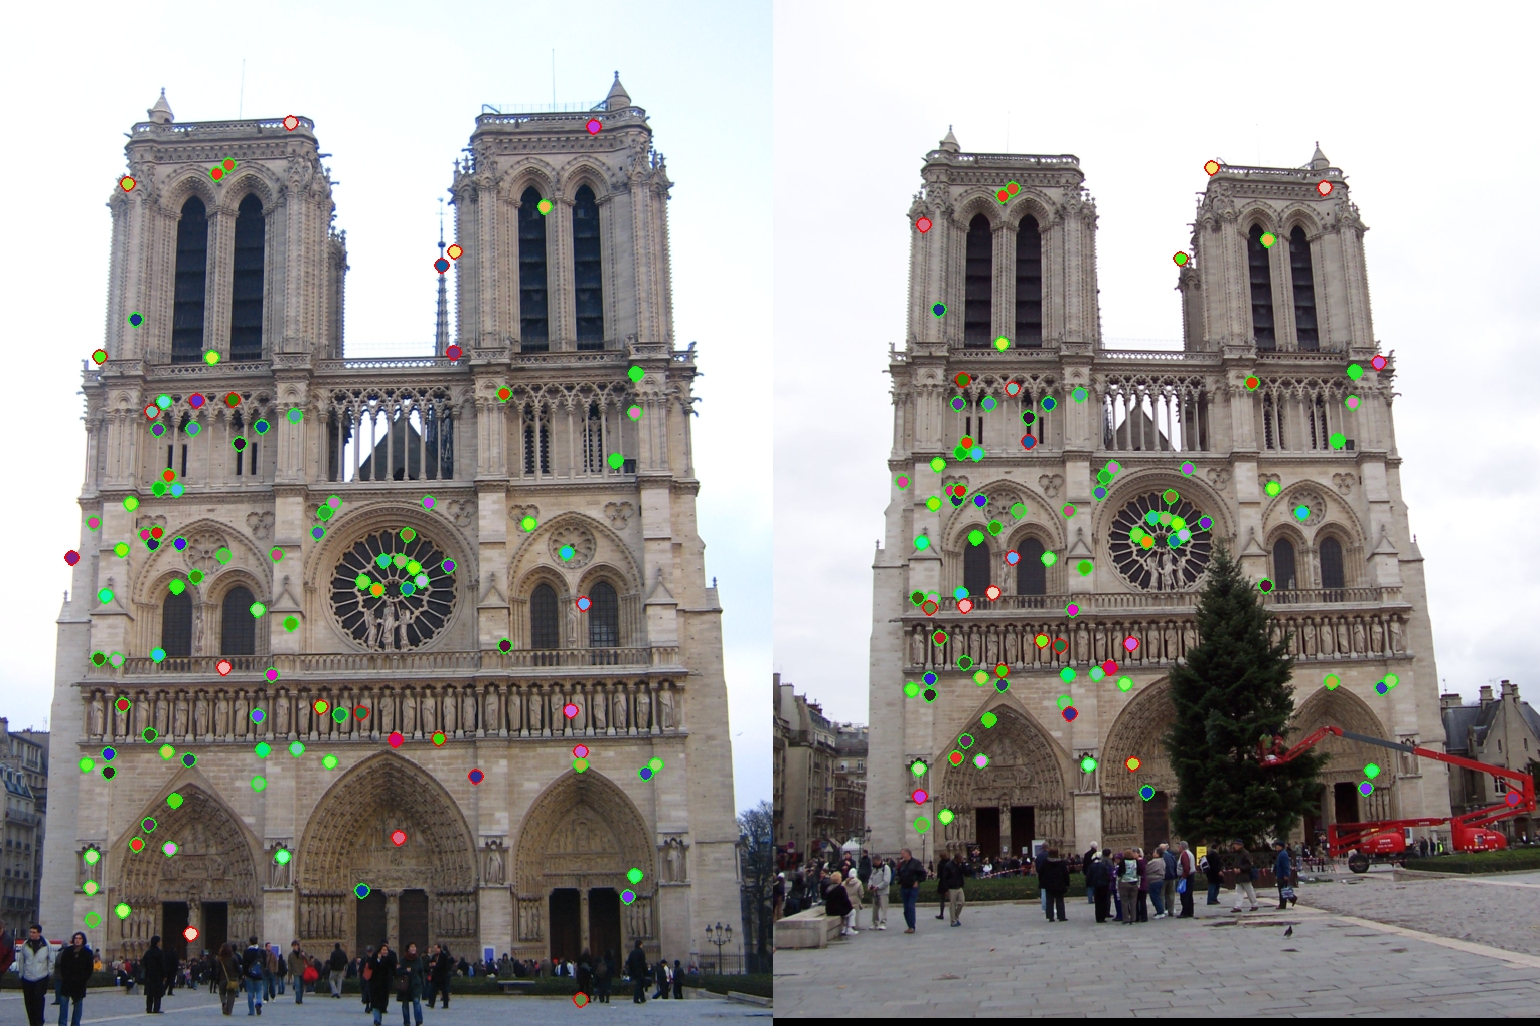
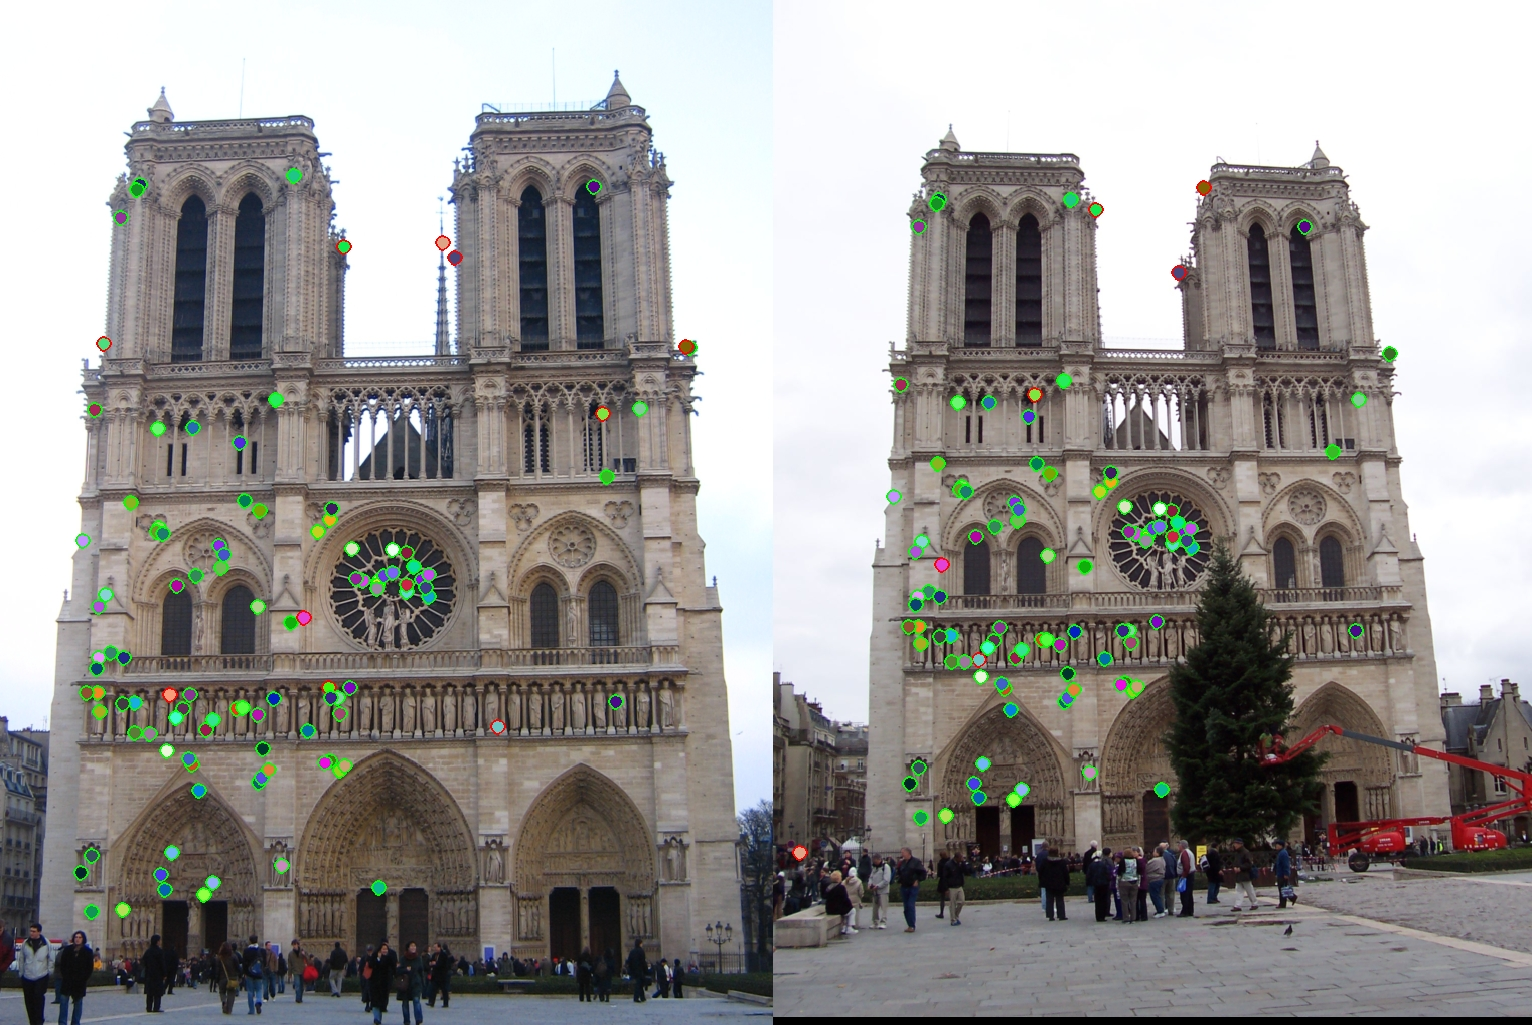
changes to interest pt detector and feature matcher

diff --git a/Basic vision/HCD+SIFT/Temp/a/code/get_interest_points.m b/Basic vision/HCD+SIFT/Temp/a/code/get_interest_points.m
@@ -18,75 +18,50 @@
 %   do not need to make scale and orientation invariant local features.
 function [x, y, confidence, scale, orientation] = get_interest_points(image, feature_width)
 
-% Implement the Harris corner detector (See Szeliski 4.1.1) to start with.
-% You can create additional interest point detector functions (e.g. MSER)
-% for extra credit.
+    % Implement the Harris corner detector (See Szeliski 4.1.1) to start with.
+    % You can create additional interest point detector functions (e.g. MSER)
+    % for extra credit.
 
-% If you're finding spurious interest point detections near the boundaries,
-% it is safe to simply suppress the gradients / corners near the edges of
-% the image.
+    % If you're finding spurious interest point detections near the boundaries,
+    % it is safe to simply suppress the gradients / corners near the edges of
+    % the image.
 
-% The lecture slides and textbook are a bit vague on how to do the
-% non-maximum suppression once you've thresholded the cornerness score.
-% You are free to experiment. Here are some helpful functions:
-%  BWLABEL and the newer BWCONNCOMP will find connected components in 
-% thresholded binary image. You could, for instance, take the maximum value
-% within each component.
-%  COLFILT can be used to run a max() operator on each sliding window. You
-% could use this to ensure that every interest point is at a local maximum
-% of cornerness.
+    % The lecture slides and textbook are a bit vague on how to do the
+    % non-maximum suppression once you've thresholded the cornerness score.
+    % You are free to experiment. Here are some helpful functions:
+    %  BWLABEL and the newer BWCONNCOMP will find connected components in 
+    % thresholded binary image. You could, for instance, take the maximum value
+    % within each component.
+    %  COLFILT can be used to run a max() operator on each sliding window. You
+    % could use this to ensure that every interest point is at a local maximum
+    % of cornerness.
+    threshold = 0.001;
+    g = fspecial('Gaussian', 6, 2.2); % Found best results with sigma 2.2
+    image = imfilter(image, g); % Blurring the image a little with Gaussian filter to reduce noise
+    gx = [-1 0 1; -1 0 1; -1 0 1]; % Prewitt mask
+    gy = gx';
 
-g = fspecial('Gaussian', 6, 2.2);
-image = imfilter(image, g); % Blurring the image a little with Gaussian filter to reduce noise
-gx = [-1 0 1; -1 0 1; -1 0 1]; % Prewitt mask
-gy = gx';
+    Ix = imfilter(image, gx); 
+    Iy = imfilter(image, gy);
+    Ix2 = imfilter(Ix.^2, g);
+    Iy2 = imfilter(Iy.^2, g);
+    Ixy = imfilter(Ix.*Iy, g);
 
-Ix = imfilter(image, gx); 
-Iy = imfilter(image, gy);
-Ix2 = imfilter(Ix.^2, g);
-Iy2 = imfilter(Iy.^2, g);
-Ixy=imfilter(Ix.*Iy, g);
+    R = (Ix2.*Iy2 - Ixy.^2)./(Ix2 + Iy2); % Cornerness measure - Brown, Szeliski, and Winder (2005). Szeliski (4.11)
 
-% R = (Ix2.*Iy2 - Ixy.^2) - 0.04*(Ix2 + Iy2).^2;
-R = (Ix2.*Iy2 - Ixy.^2)./(Ix2 + Iy2); % Cornerness measure
+    R(R < threshold) = 0;
+    r_dim = size(R);
+    R(1: feature_width, :) = 0;R(r_dim(1) - feature_width: r_dim(1), :) = 0; % suppression of outputs near edges
+    R(:, 1:feature_width) = 0;R(:, r_dim(2) - feature_width:r_dim(2)) = 0; % supp continued
 
-R(R < 0.001) = 0;
-r_dim = size(R);
-R(1: feature_width, :) = 0;R(r_dim(1) - feature_width: r_dim(1), :) = 0; % Rowwise
-R(:, 1:feature_width) = 0;R(:, r_dim(2) - feature_width:r_dim(2)) = 0; % Columnwise edge supp
+    r_max = colfilt(R,[3 3],'sliding',@max); % find neighborhood max
+    r_suppressed = R.*(R == r_max);  % suppress non-max
+    [y, x] = find(r_suppressed); 
 
-
-%Local Non-maximal Supression
-offset = floor(feature_width/2);
-for row=1+offset:r_dim(1)-offset
-    for col=1+offset:r_dim(2)-offset
-        window = R(row-offset:row+offset, col-offset:col+offset);
-        if R(row,col) ~=  max(max(window))
-            R(row,col) = 0;
-        end 
-    end
-end
-
-[y, x] = find(R>0);
-
-%Vis Corners
-figure(3);imshow(image);
-viscircles([x, y], ones(size([x, y],1),1));
+    figure(1);imshow(image);
+    viscircles([x, y], ones(size([x, y],1),1));
 
 
 end
 
-
-% function radius = getMaxRadius(image, x, y, width, height)
-% 
-% radius = 0;
-% window = image(x-radius:x+radius, y-radius:y+radius);
-%     while max(window(:)) <= image(x,y)
-%         radius = radius + 1;
-%         if (x-radius < 1) || (x+radius)> height || (y-radius < 1) || (y+radius)> width
-%             break
-%         end
-%         window = image(x-radius:x+radius, y-radius:y+radius);
-%     end
-% end
 

diff --git a/Basic vision/HCD+SIFT/Temp/a/code/match_features.m b/Basic vision/HCD+SIFT/Temp/a/code/match_features.m
@@ -24,27 +24,69 @@ function [matches, confidences] = match_features(features1, features2)
 
 
 %Initialize
-matches = zeros(length(features1) , 2);
-confidences = zeros(length(features1),1);
-
-threshold = 0.9;
-for i = 1:length(features1)
-    distances = sqrt(sum((repmat(features1(i,:),length(features2),1)-features2).^2,2));
-    [dists,indices] = sort(distances,'ascend');
-    ratio = dists(1)/dists(2);
-    if ratio < threshold
-        matches(i,:) = [i indices(1)];
-        confidences(i) = 1-ratio;
-    end
-end
-
-matches(all(matches==0,2),:)=[];
-confidences(all(matches==0,2),:)=[];
+% % matches = zeros(length(features1) , 2);
+% % confidences = zeros(length(features1),1);
+% % 
+% % threshold = 0.875;
+% % for i = 1:length(features1)
+% %     distances = sqrt(sum((repmat(features1(i,:),length(features2),1)-features2).^2,2));
+% %     [dists,indices] = sort(distances,'ascend');
+% %     ratio = dists(1)/dists(2);
+% %     if ratio < threshold
+% %         matches(i,:) = [i indices(1)];
+% %         confidences(i) = 1-ratio;
+% %     end
+% % end
+% % 
+% % matches(all(matches==0,2),:)=[];
+% % confidences(all(matches==0,2),:)=[];
 % Sort the matches so that the most confident onces are at the top of the
 % list. You should probably not delete this, so that the evaluation
 % functions can be run on the top matches easily.
 % [confidences, ind] = sort(confidences, 'descend');
 % matches = matches(ind,:);
+% #################################################################################################################
+	f1 = length(features1);
+	f2 = length(features2);
+	matches = zeros(f1, 2);
+	confidences = zeros(f1, 1);
+    distances = zeros(f2, f1);
+    threshold = 0.865;
+	% find the euclidian distance between each pair of descriptors in feature
+	% space
 
-% matches = matches(1:15, :);
-% confidences = confidences(1:15);
+	for i = 1:f1
+	    for j = 1:f2
+	        distances(j, i) = norm(features1(i, :) - features2(j, :));
+            [sorted_distances, inds] = sort(distances);
+            ratio = sorted_distances(1, i) / sorted_distances(2, i);
+            if ratio < threshold
+                matches(i, :) = [i, inds(1, i)];
+                confidences(i) = 1 - ratio;
+            end
+	    end
+	end
+
+
+% 	[sorted_distances, inds] = sort(distances); % sort distances in ascending order
+% 
+% 	% calculate ratio of nearest neighbor to second nearest neighbor
+% 	% if above threshold, add to matches list and save ratio as confidence value
+% 	for i = 1 : f1
+% 	    ratio = sorted_distances(1, i) / sorted_distances(2, i);
+% 	    if ratio < threshold
+% 	        matches(i, :) = [i, inds(1, i)];
+% 	        confidences(i) = 1 - ratio;
+% 	    end
+% 	end
+
+	% keep only those that matched
+	match_inds = find(confidences > 0);
+	matches = matches(match_inds, :);
+	confidences = confidences(match_inds);
+
+	% Sort the matches so that the most confident onces are at the top of the list
+	[confidences, ind] = sort(confidences, 'descend');
+	matches = matches(ind, :);
+
+end

diff --git a/Basic vision/HCD+SIFT/Temp/a/code/get_features.m b/Basic vision/HCD+SIFT/Temp/a/code/get_features.m
@@ -14,7 +14,7 @@
 % particular orientations you can add input arguments.
 
 % 'features' is the array of computed features. It should have the
-%   following size: [length(x) x feature dimensionality] (e.g. 128 for
+%   following size: [f_number x feature dimensionality] (e.g. 128 for
 %   standard SIFT)
 
 function [features] = get_features(image, x, y, feature_width)
@@ -53,31 +53,26 @@ function [features] = get_features(image, x, y, feature_width)
 % feature vector to some power that is less than one.
 
 % Placeholder that you can delete. Empty features.
-gy = fspecial('sobel');
-gx = gy';
-% Image gradients
-[Ix , Iy] = gradient(image);
 
-%witghting for the window
-weight = fspecial('Gaussian', feature_width , feature_width/2);
-winOffset = feature_width/2 ;
 
-%preallocate features
-features = zeros(length(x), 128);
+f_number = length(x);
+weight = fspecial('Gaussian', feature_width , feature_width/2); % window weights
+woff = feature_width/2; % window offset
+features = zeros(f_number, 128);
 
-%bin edges for histogram
+% bin edges for histogram
 bins = [ 0 pi/4 pi/2 3*pi/4 pi 5*pi/4 3*pi/2 7*pi/4 2*pi] - (pi/8);
-
+% bins = [0,pi/8,pi/4,pi*3/8,pi/2,5*pi/8,3*pi/4,7*pi/8,pi,9*pi/8,5*pi/4,11*pi/8,3*pi/2,13*pi/8,7*pi/4,15*pi/8,2*pi];
+[Ix , Iy] = gradient(image);
 %Iterate over all interest points
-for i=1:length(x)
-    x_i = y(i);
-    y_i = x(i);
-    
+
+for i=1:f_number
     %feature at this keypoint
-    featureI = zeros(1,128);
+    f_block = zeros(1,128);
     %get gradients in the window
-    windowIx = Ix(x_i-winOffset+1:x_i+winOffset, y_i-winOffset+1:y_i+winOffset);
-    windowIy = Iy(x_i-winOffset+1:x_i+winOffset, y_i-winOffset+1:y_i+winOffset);
+    windowIx = Ix(y(i)-woff+1:y(i)+woff, x(i)-woff+1:x(i)+woff);
+    windowIy = Iy(y(i)-woff+1:y(i)+woff, x(i)-woff+1:x(i)+woff);
+
     %weight window by gaussian
     
     windowIx = windowIx .* weight;
@@ -105,9 +100,9 @@ for i=1:length(x)
             %renormalize
             tempHist = tempHist/norm(tempHist);
  
-            featureI(binCount:binCount+7) = tempHist;
+            f_block(binCount:binCount+7) = tempHist;
             
-            binCount=binCount + 8;
+            binCount = binCount + 8;
             
             
             
@@ -115,7 +110,7 @@ for i=1:length(x)
         end
     end
     
-    features(i, :) = featureI;
+    features(i, :) = f_block;
     
     
 end

diff --git a/Basic vision/HCD+SIFT/Temp/a/code/proj2.m b/Basic vision/HCD+SIFT/Temp/a/code/proj2.m
@@ -23,12 +23,12 @@ close all
 % for this project), but you will need local features at multiple scales to
 % handle harder cases.
 % imageBase = imread('../data/base.jpg');
-% % % imageBase_bw = rgb2gray(imageBase);
+% % % % imageBase_bw = rgb2gray(imageBase);
 image1 = imread('../data/Notre Dame/921919841_a30df938f2_o.jpg');
 image2 = imread('../data/Notre Dame/4191453057_c86028ce1f_o.jpg');
 eval_file = '../data/Notre Dame/921919841_a30df938f2_o_to_4191453057_c86028ce1f_o.mat';
 
-%This pair is relatively easy
+% This pair is relatively easy
 % image1 = imread('../data/Mount Rushmore/9021235130_7c2acd9554_o.jpg');
 % image2 = imread('../data/Mount Rushmore/9318872612_a255c874fb_o.jpg');
 % eval_file = '../data/Mount Rushmore/9021235130_7c2acd9554_o_to_9318872612_a255c874fb_o.mat';
